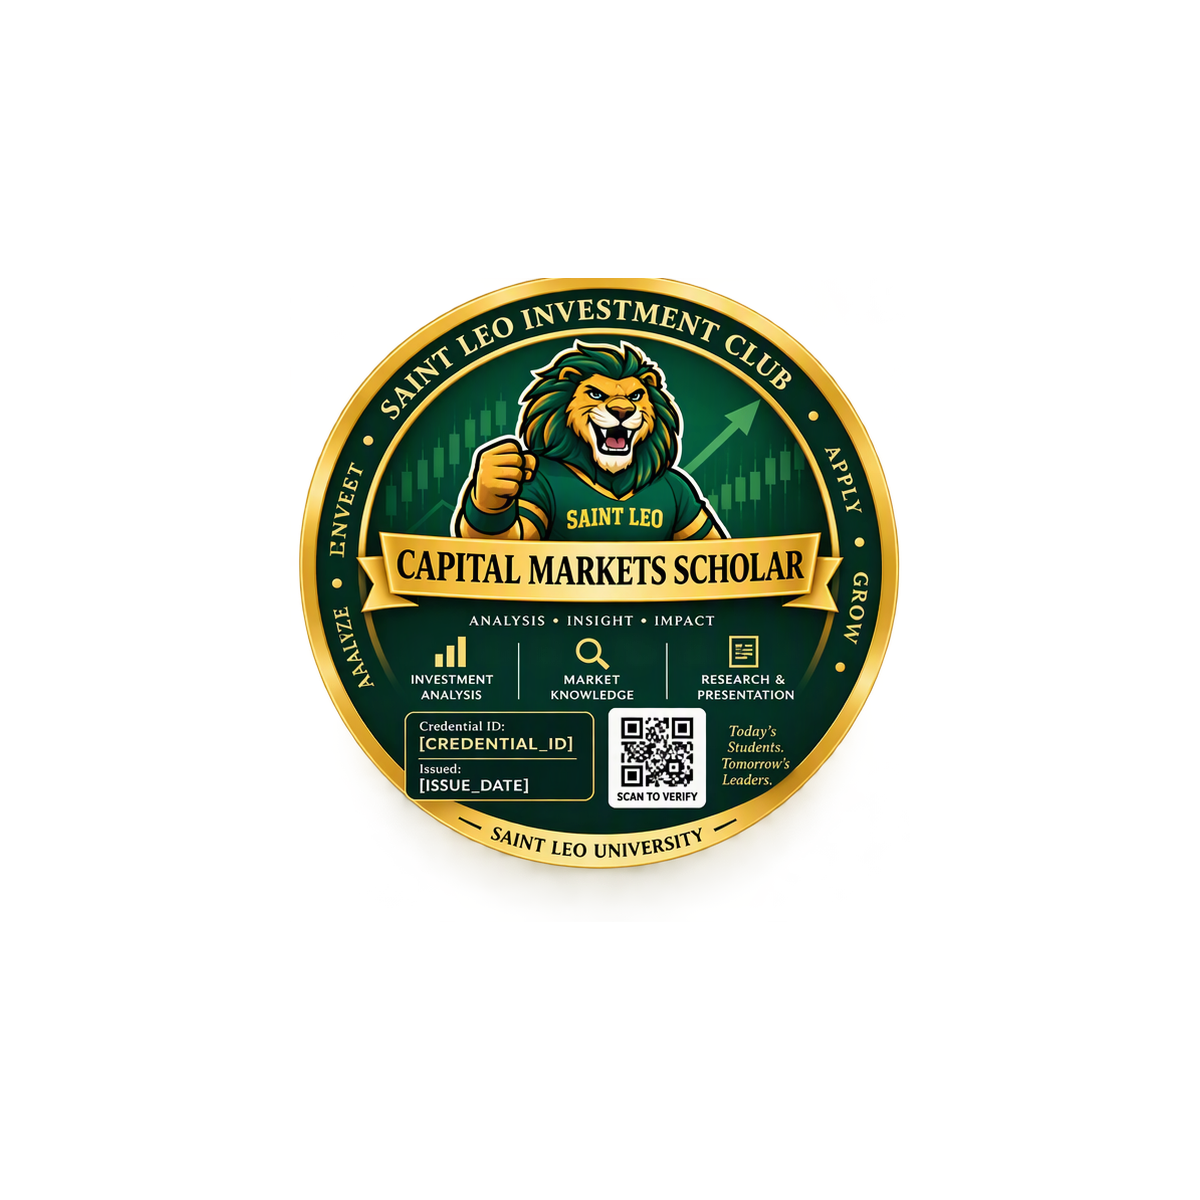
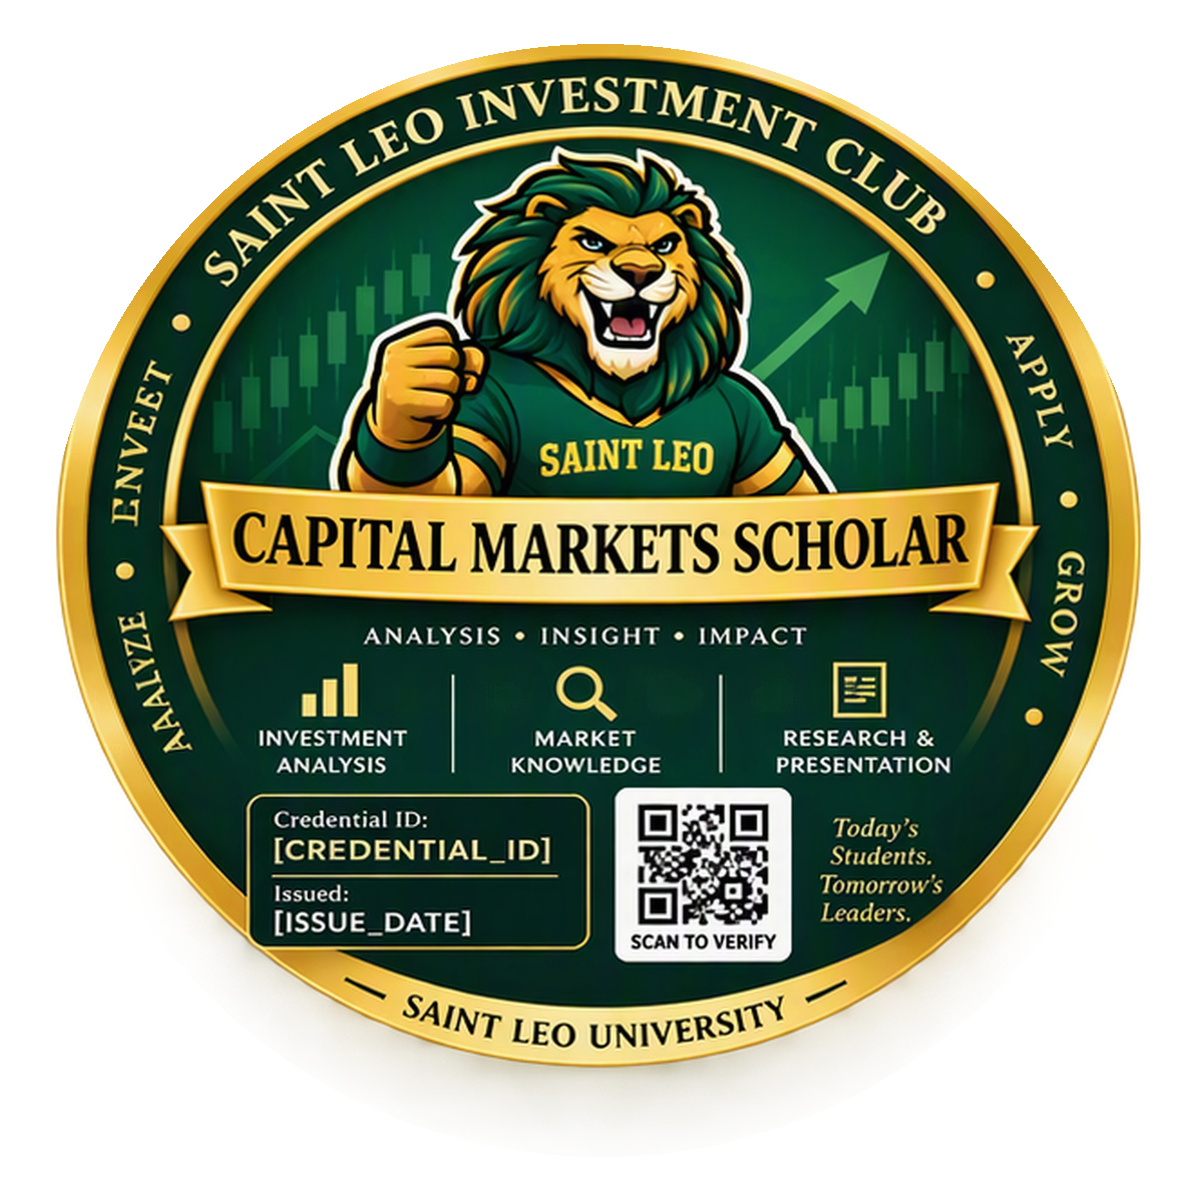
Add files via upload

diff --git a/index.html b/index.html
@@ -1,1 +1,1 @@
-<!doctype html><html lang="en"><head><meta charset="utf-8"><meta name="viewport" content="width=device-width,initial-scale=1"><title>Saint Leo Investment Club Credentials</title><link rel="stylesheet" href="assets/css/style.css"></head><body><header><div class="brand">SAINT LEO INVESTMENT CLUB</div><h1>Professional Credential Pathway</h1><p>Verified co-curricular achievement in investment education, professional engagement, applied analysis, and leadership.</p></header><main class="wrap"><section class="card"><h2>Verify a credential</h2><form id="verify"><div class="row"><input id="credential" aria-label="Credential ID" placeholder="SLIC-CMS-2027-001" required><button>Verify</button></div></form><p id="message" class="muted"></p></section><section><h2>Credential pathway</h2><div class="grid"><article class="tier"><img src="assets/badges/finance-explorer-master.png" alt="Finance Explorer badge"><div class="copy"><h3>Finance Explorer</h3><p>Initial intentional engagement with finance education and industry programming.</p><a href="criteria/finance-explorer.html">View criteria</a></div></article><article class="tier"><img src="assets/badges/investment-networker-master.png" alt="Investment Networker badge"><div class="copy"><h3>Investment Networker</h3><p>Sustained engagement with alumni, employers, and finance professionals.</p><a href="criteria/investment-networker.html">View criteria</a></div></article><article class="tier"><img src="assets/badges/capital-markets-scholar-master.png" alt="Capital Markets Scholar badge"><div class="copy"><h3>Capital Markets Scholar</h3><p>Applied investment analysis backed by evidence and professional communication.</p><a href="criteria/capital-markets-scholar.html">View criteria</a></div></article><article class="tier"><img src="assets/badges/leo-investment-fellow-master.png" alt="Leo Investment Fellow badge"><div class="copy"><h3>Leo Investment Fellow</h3><p>Distinguished leadership, mentorship, service, and lasting contribution.</p><a href="criteria/leo-investment-fellow.html">View criteria</a></div></article></div></section><section class="notice"><strong>Program statement.</strong> These credentials recognize co-curricular achievements through the Saint Leo Investment Club. They do not confer academic credit, professional licensure, or university certification unless separately authorized.</section></main><footer>Saint Leo Investment Club Professional Credential Program</footer><script src="assets/js/verify.js"></script></body></html>
+<!doctype html><html lang="en"><head><meta charset="utf-8"><meta name="viewport" content="width=device-width,initial-scale=1"><title>Saint Leo Investment Club Credentials</title><link rel="stylesheet" href="assets/css/style.css?v=4"><link rel="stylesheet" href="assets/css/badge-layout-v4.css?v=4"></head><body><header><div class="brand">SAINT LEO INVESTMENT CLUB</div><h1>Professional Credential Pathway</h1><p>Verified co-curricular achievement in investment education, professional engagement, applied analysis, and leadership.</p></header><main class="wrap"><section class="card"><h2>Verify a credential</h2><form id="verify"><div class="row"><input id="credential" aria-label="Credential ID" placeholder="SLIC-CMS-2027-001" required><button>Verify</button></div></form><p id="message" class="muted"></p></section><section><h2>Credential pathway</h2><div class="credential-grid"><article class="credential-card"><div class="credential-badge-frame"><img src="assets/badges/finance-explorer-master.png?v=4" alt="Finance Explorer badge"></div><div class="copy"><h3>Finance Explorer</h3><p>Initial intentional engagement with finance education and industry programming.</p><a href="criteria/finance-explorer.html">View criteria</a></div></article><article class="credential-card"><div class="credential-badge-frame"><img src="assets/badges/investment-networker-master.png?v=4" alt="Investment Networker badge"></div><div class="copy"><h3>Investment Networker</h3><p>Sustained engagement with alumni, employers, and finance professionals.</p><a href="criteria/investment-networker.html">View criteria</a></div></article><article class="credential-card"><div class="credential-badge-frame"><img src="assets/badges/capital-markets-scholar-master.png?v=4" alt="Capital Markets Scholar badge"></div><div class="copy"><h3>Capital Markets Scholar</h3><p>Applied investment analysis backed by evidence and professional communication.</p><a href="criteria/capital-markets-scholar.html">View criteria</a></div></article><article class="credential-card"><div class="credential-badge-frame"><img src="assets/badges/leo-investment-fellow-master.png?v=4" alt="Leo Investment Fellow badge"></div><div class="copy"><h3>Leo Investment Fellow</h3><p>Distinguished leadership, mentorship, service, and lasting contribution.</p><a href="criteria/leo-investment-fellow.html">View criteria</a></div></article></div></section><section class="notice"><strong>Program statement.</strong> These credentials recognize co-curricular achievements through the Saint Leo Investment Club. They do not confer academic credit, professional licensure, or university certification unless separately authorized.</section></main><footer>Saint Leo Investment Club Professional Credential Program</footer><script src="assets/js/verify.js"></script></body></html>

diff --git a/assets/css/style.css b/assets/css/style.css
@@ -1,1 +1,1 @@
-:root{--green:#063f31;--green2:#0b5b43;--gold:#d8aa32;--cream:#f7f3e8;--ink:#17221f;--white:#fff}*{box-sizing:border-box}body{margin:0;font-family:Inter,Segoe UI,Arial,sans-serif;color:var(--ink);background:var(--cream);line-height:1.55}a{color:#075c46}header{background:linear-gradient(135deg,var(--green),var(--green2));color:white;padding:58px 7vw 50px;border-bottom:8px solid var(--gold)}header .brand{color:#f3cf62;font-weight:800;letter-spacing:.12em}h1,h2,h3{font-family:Georgia,serif}h1{font-size:clamp(2.2rem,6vw,4.8rem);margin:.2em 0}.wrap{max-width:1100px;margin:auto;padding:34px 24px}.card{background:white;padding:28px;border-radius:18px;box-shadow:0 12px 35px #063f3120;margin-bottom:24px}.grid{display:grid;grid-template-columns:repeat(auto-fit,minmax(230px,1fr));gap:20px}.tier img{width:100%;display:block;aspect-ratio:1/1;object-fit:contain;padding:10px;background:#fff}.tier{background:white;border-radius:16px;overflow:hidden;box-shadow:0 8px 24px #063f3117}.tier .copy{padding:18px}.status{display:inline-block;border-radius:999px;padding:6px 12px;background:#dcefe7;color:#084936;font-weight:800}.row{display:flex;gap:12px}input{flex:1;padding:15px;border:2px solid #d6d2c4;border-radius:10px;font-size:1rem;text-transform:uppercase}button{background:var(--gold);color:var(--green);font-weight:800;border:0;border-radius:10px;padding:0 24px;cursor:pointer}.meta{display:grid;grid-template-columns:repeat(auto-fit,minmax(190px,1fr));gap:12px}.meta div{background:#f7f4eb;padding:14px;border-radius:10px}.notice{border-left:5px solid var(--gold);padding:12px 16px;background:#fff7d8}.muted{color:#65706c}footer{text-align:center;padding:38px;color:#65706c}@media(max-width:640px){.row{display:block}button{width:100%;padding:15px;margin-top:10px}}
+:root{--green:#063f31;--green2:#0b5b43;--gold:#d8aa32;--cream:#f7f3e8;--ink:#17221f;--white:#fff}*{box-sizing:border-box}body{margin:0;font-family:Inter,Segoe UI,Arial,sans-serif;color:var(--ink);background:var(--cream);line-height:1.55}a{color:#075c46}header{background:linear-gradient(135deg,var(--green),var(--green2));color:white;padding:58px 7vw 50px;border-bottom:8px solid var(--gold)}header .brand{color:#f3cf62;font-weight:800;letter-spacing:.12em}h1,h2,h3{font-family:Georgia,serif}h1{font-size:clamp(2.2rem,6vw,4.8rem);margin:.2em 0}.wrap{max-width:1100px;margin:auto;padding:34px 24px}.card{background:white;padding:28px;border-radius:18px;box-shadow:0 12px 35px #063f3120;margin-bottom:24px}.grid{display:grid;grid-template-columns:repeat(auto-fit,minmax(255px,1fr));gap:20px}.tier img{width:100%;display:block;aspect-ratio:1/1;object-fit:contain;padding:0;background:#fff}.tier{background:white;border-radius:16px;overflow:hidden;box-shadow:0 8px 24px #063f3117}.tier .copy{padding:18px}.status{display:inline-block;border-radius:999px;padding:6px 12px;background:#dcefe7;color:#084936;font-weight:800}.row{display:flex;gap:12px}input{flex:1;padding:15px;border:2px solid #d6d2c4;border-radius:10px;font-size:1rem;text-transform:uppercase}button{background:var(--gold);color:var(--green);font-weight:800;border:0;border-radius:10px;padding:0 24px;cursor:pointer}.meta{display:grid;grid-template-columns:repeat(auto-fit,minmax(190px,1fr));gap:12px}.meta div{background:#f7f4eb;padding:14px;border-radius:10px}.notice{border-left:5px solid var(--gold);padding:12px 16px;background:#fff7d8}.muted{color:#65706c}footer{text-align:center;padding:38px;color:#65706c}@media(max-width:640px){.row{display:block}button{width:100%;padding:15px;margin-top:10px}}

diff --git a/credentials/SLIC-CMS-2027-001.html b/credentials/SLIC-CMS-2027-001.html
@@ -1,1 +1,1 @@
-<!doctype html><html lang="en"><head><meta charset="utf-8"><meta name="viewport" content="width=device-width,initial-scale=1"><title>Capital Markets Scholar | SLIC-CMS-2027-001</title><link rel="stylesheet" href="../assets/css/style.css"><meta property="og:title" content="Capital Markets Scholar"><meta property="og:description" content="Verified credential issued by the Saint Leo Investment Club."><meta property="og:image" content="../assets/issued/SLIC-CMS-2027-001.png"></head><body><header><div class="brand">VERIFIED CREDENTIAL</div><h1>Capital Markets Scholar</h1><p>Saint Leo Investment Club Professional Credential Program</p></header><main class="wrap"><section class="card"><span class="status">Active</span><h2>Sample Student</h2><div class="meta"><div><strong>Credential ID</strong><br>SLIC-CMS-2027-001</div><div><strong>Issue date</strong><br>February 15, 2027</div><div><strong>Issuer</strong><br>Saint Leo Investment Club</div></div><p><a href="../criteria/capital-markets-scholar.html">View the public criteria</a></p><img src="../assets/issued/SLIC-CMS-2027-001.png" alt="Capital Markets Scholar badge" style="max-width:520px;width:100%"></section></main><footer>Credential verification record</footer></body></html>
+<!doctype html><html lang="en"><head><meta charset="utf-8"><meta name="viewport" content="width=device-width,initial-scale=1"><title>Capital Markets Scholar | SLIC-CMS-2027-001</title><link rel="stylesheet" href="../assets/css/style.css?v=4"><link rel="stylesheet" href="../assets/css/badge-layout-v4.css?v=4"><meta property="og:title" content="Capital Markets Scholar"><meta property="og:description" content="Verified credential issued by the Saint Leo Investment Club."><meta property="og:image" content="../assets/issued/SLIC-CMS-2027-001.png?v=4"></head><body><header><div class="brand">VERIFIED CREDENTIAL</div><h1>Capital Markets Scholar</h1><p>Saint Leo Investment Club Professional Credential Program</p></header><main class="wrap"><section class="card"><span class="status">Active</span><h2>Sample Student</h2><div class="meta"><div><strong>Credential ID</strong><br>SLIC-CMS-2027-001</div><div><strong>Issue date</strong><br>February 15, 2027</div><div><strong>Issuer</strong><br>Saint Leo Investment Club</div></div><p><a href="../criteria/capital-markets-scholar.html">View the public criteria</a></p><img src="../assets/issued/SLIC-CMS-2027-001.png?v=4" alt="Capital Markets Scholar badge" class="issued-badge"></section></main><footer>Credential verification record</footer></body></html>

diff --git a/templates/credential-template.html b/templates/credential-template.html
@@ -1,1 +1,1 @@
-<!doctype html><html lang="en"><head><meta charset="utf-8"><meta name="viewport" content="width=device-width,initial-scale=1"><title>{{CREDENTIAL_TITLE}} | {{CREDENTIAL_ID}}</title><link rel="stylesheet" href="../assets/css/style.css"><meta property="og:title" content="{{CREDENTIAL_TITLE}}"><meta property="og:description" content="Verified credential issued by the Saint Leo Investment Club."><meta property="og:image" content="{{BADGE_URL}}"></head><body><header><div class="brand">VERIFIED CREDENTIAL</div><h1>{{CREDENTIAL_TITLE}}</h1><p>Saint Leo Investment Club Professional Credential Program</p></header><main class="wrap"><section class="card"><span class="status">{{STATUS}}</span><h2>{{PUBLIC_NAME}}</h2><div class="meta"><div><strong>Credential ID</strong><br>{{CREDENTIAL_ID}}</div><div><strong>Issue date</strong><br>{{ISSUE_DATE}}</div><div><strong>Issuer</strong><br>Saint Leo Investment Club</div></div><p><a href="{{CRITERIA_URL}}">View the public criteria</a></p><img src="{{BADGE_URL}}" alt="{{CREDENTIAL_TITLE}} badge" style="max-width:520px;width:100%"></section></main><footer>Credential verification record</footer></body></html>
+<!doctype html><html lang="en"><head><meta charset="utf-8"><meta name="viewport" content="width=device-width,initial-scale=1"><title>{{CREDENTIAL_TITLE}} | {{CREDENTIAL_ID}}</title><link rel="stylesheet" href="../assets/css/style.css?v=4"><link rel="stylesheet" href="../assets/css/badge-layout-v4.css?v=4"><meta property="og:title" content="{{CREDENTIAL_TITLE}}"><meta property="og:description" content="Verified credential issued by the Saint Leo Investment Club."><meta property="og:image" content="{{BADGE_URL}}"></head><body><header><div class="brand">VERIFIED CREDENTIAL</div><h1>{{CREDENTIAL_TITLE}}</h1><p>Saint Leo Investment Club Professional Credential Program</p></header><main class="wrap"><section class="card"><span class="status">{{STATUS}}</span><h2>{{PUBLIC_NAME}}</h2><div class="meta"><div><strong>Credential ID</strong><br>{{CREDENTIAL_ID}}</div><div><strong>Issue date</strong><br>{{ISSUE_DATE}}</div><div><strong>Issuer</strong><br>Saint Leo Investment Club</div></div><p><a href="{{CRITERIA_URL}}">View the public criteria</a></p><img src="{{BADGE_URL}}" alt="{{CREDENTIAL_TITLE}} badge" class="issued-badge"></section></main><footer>Credential verification record</footer></body></html>

diff --git a/assets/css/badge-layout-v4.css b/assets/css/badge-layout-v4.css
@@ -1,0 +1,10 @@
+/* Badge layout v4: explicit sizing, no transforms, no detached content. */
+.credential-grid{display:grid;grid-template-columns:repeat(4,minmax(0,1fr));gap:20px;align-items:stretch}
+.credential-card{background:#fff;border-radius:16px;overflow:hidden;box-shadow:0 8px 24px #063f3117;display:flex;flex-direction:column;min-width:0}
+.credential-badge-frame{height:300px;padding:12px;display:flex;align-items:center;justify-content:center;background:#fff;overflow:hidden}
+.credential-badge-frame img{display:block;width:100%;height:100%;max-width:none;object-fit:contain;padding:0;margin:0;transform:none}
+.credential-card .copy{padding:18px;display:flex;flex-direction:column;flex:1}
+.credential-card .copy p{flex:1}
+.issued-badge{display:block;width:min(100%,820px);height:auto;margin:28px auto 0;object-fit:contain}
+@media(max-width:1050px){.credential-grid{grid-template-columns:repeat(2,minmax(0,1fr))}.credential-badge-frame{height:360px}}
+@media(max-width:620px){.credential-grid{grid-template-columns:1fr}.credential-badge-frame{height:auto;aspect-ratio:1/1}}

diff --git a/scripts/generate_credential.py b/scripts/generate_credential.py
@@ -37,25 +37,28 @@ def fit_text(draw,text,max_width,start=38,min_size=20,bold=True):
 def make_issued_badge(master_path,out_path,cid,issue_date,url):
     im=Image.open(master_path).convert('RGBA').resize((1200,1200),Image.Resampling.LANCZOS)
     d=ImageDraw.Draw(im)
-    green=(5,58,45,255); gold=(221,178,63,255); white=(255,255,255,255)
-    # Replace the embedded placeholder panels with clean, credential-specific content.
-    d.rounded_rectangle((185,865,605,1082),radius=24,fill=green,outline=gold,width=4)
-    d.text((215,888),'Credential ID:',font=font(28),fill=white)
-    d.text((215,925),cid,font=fit_text(d,cid,355,36,23),fill=white)
-    d.line((215,973,575,973),fill=gold,width=3)
-    d.text((215,987),'Issued:',font=font(27),fill=white)
-    d.text((215,1024),issue_date,font=fit_text(d,issue_date,355,34,22),fill=white)
-    # Unique QR code generated from the exact public verification URL.
+    green=(4,55,42,255); gold=(221,178,63,255); white=(255,255,255,255)
+
+    # Credential data is integrated into the lower portion of the circular badge.
+    # The panels stay above the lower ring so nothing appears detached from the badge.
+    d.rounded_rectangle((150,835,610,1045),radius=24,fill=green,outline=gold,width=4)
+    d.text((180,855),'Credential ID:',font=font(27),fill=white)
+    d.text((180,892),cid,font=fit_text(d,cid,395,37,23),fill=white)
+    d.line((180,940,580,940),fill=gold,width=3)
+    d.text((180,953),'Issued:',font=font(26),fill=white)
+    d.text((180,989),issue_date,font=fit_text(d,issue_date,395,33,21),fill=white)
+
     qr=qrcode.QRCode(version=None,error_correction=qrcode.constants.ERROR_CORRECT_H,box_size=10,border=4)
     qr.add_data(url); qr.make(fit=True)
-    qrim=qr.make_image(fill_color='black',back_color='white').convert('RGBA').resize((210,210),Image.Resampling.NEAREST)
-    d.rounded_rectangle((625,864,857,1100),radius=20,fill=white,outline=gold,width=4)
-    im.alpha_composite(qrim,(636,875))
-    # Cover previous caption and add a clean scan instruction.
-    d.rectangle((635,1074,848,1094),fill=white)
-    caption='SCAN TO VERIFY'; cf=fit_text(d,caption,202,24,18)
-    tw=d.textbbox((0,0),caption,font=cf)[2]
-    d.text((741-tw/2,1071),caption,font=cf,fill=(0,0,0,255))
+    qrim=qr.make_image(fill_color='black',back_color='white').convert('RGBA').resize((168,168),Image.Resampling.NEAREST)
+    d.rounded_rectangle((635,832,855,1052),radius=20,fill=white,outline=gold,width=4)
+    im.alpha_composite(qrim,(661,845))
+
+    caption='SCAN TO VERIFY'
+    d.rounded_rectangle((650,1018,840,1043),radius=8,fill=white)
+    cf=fit_text(d,caption,178,22,16)
+    bb=d.textbbox((0,0),caption,font=cf)
+    d.text((745-(bb[2]-bb[0])/2,1019),caption,font=cf,fill=(0,0,0,255))
     im.save(out_path,optimize=True)
 
 with open(sys.argv[1],newline='',encoding='utf-8') as f:
@@ -64,7 +67,7 @@ with open(sys.argv[1],newline='',encoding='utf-8') as f:
         if typ not in TITLES: raise ValueError(f'Unknown credential type: {typ}')
         if not ID_RE.fullmatch(cid) or cid.split('-')[1] != typ: raise ValueError(f'Invalid credential ID/type: {cid}/{typ}')
         verification_url=f'{BASE_URL}/credentials/{cid}.html'
-        badge_rel=f'../assets/issued/{cid}.png'
+        badge_rel=f'../assets/issued/{cid}.png?v=4'
         make_issued_badge(root/'assets'/'badges'/BADGES[typ],issued/f'{cid}.png',cid,row['issue_date'],verification_url)
         html=template
         values={'{{CREDENTIAL_TITLE}}':TITLES[typ],'{{CREDENTIAL_ID}}':cid,'{{PUBLIC_NAME}}':row['public_name'],'{{ISSUE_DATE}}':row['issue_date'],'{{STATUS}}':row['status'],'{{CRITERIA_URL}}':f'../criteria/{SLUGS[typ]}.html','{{BADGE_URL}}':badge_rel}
